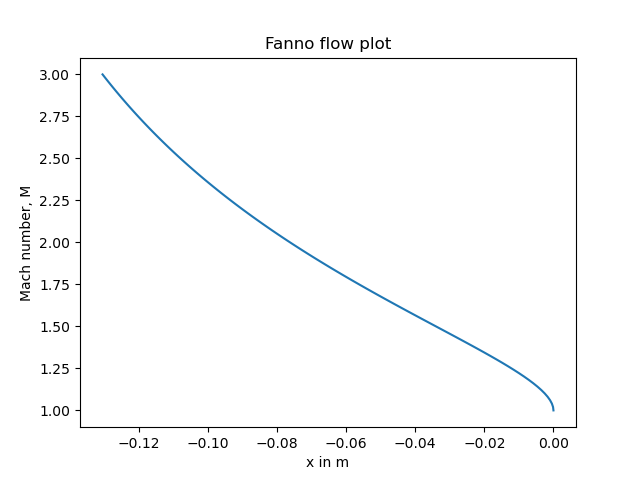
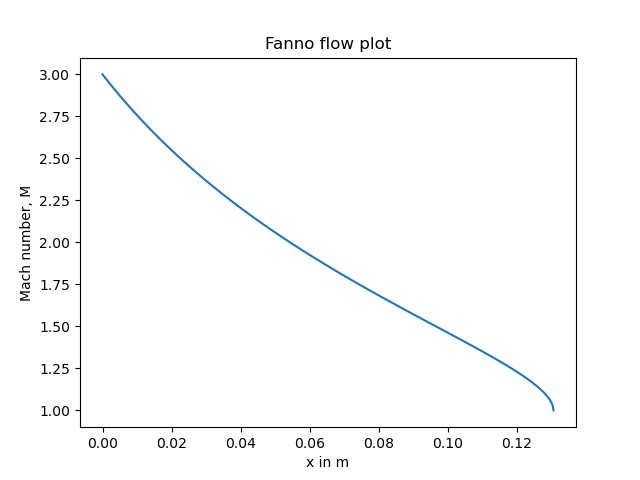
HW21 update

Changed region(s): [[0.125, 0.9062, 0.9062, 0.9375]]

diff --git a/HW21/IFM_HW21_pyscript.py b/HW21/IFM_HW21_pyscript.py
@@ -27,11 +27,11 @@ def G_M(M):
     return t1+t2
 
 n = 100
-M = np.linspace(3,1,n)
+M = np.linspace(1,3,n)
 
 x = (d/f)*G_M(M)
 L_choke = x[-1]
-x = x[-1]-x
+x = -(x - x[-1])
 
 plt.plot(x, M)
 plt.xlabel("x in m")
